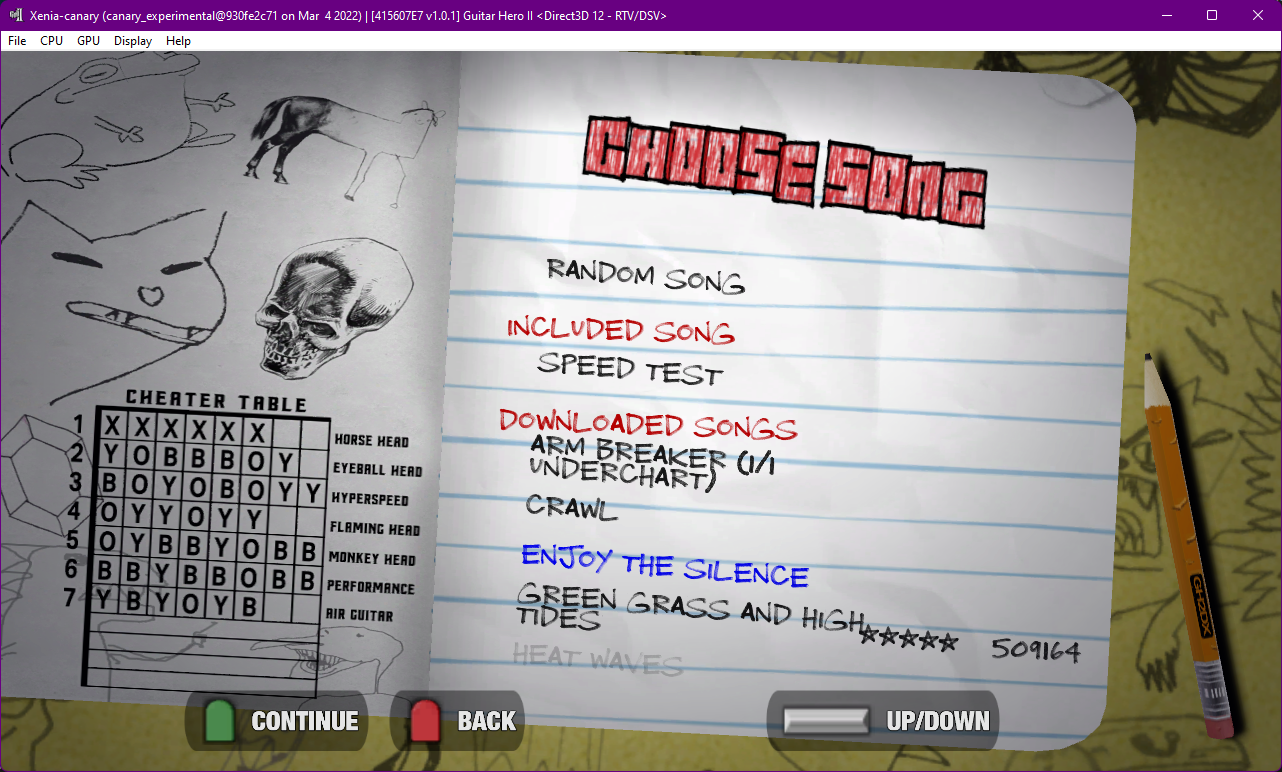
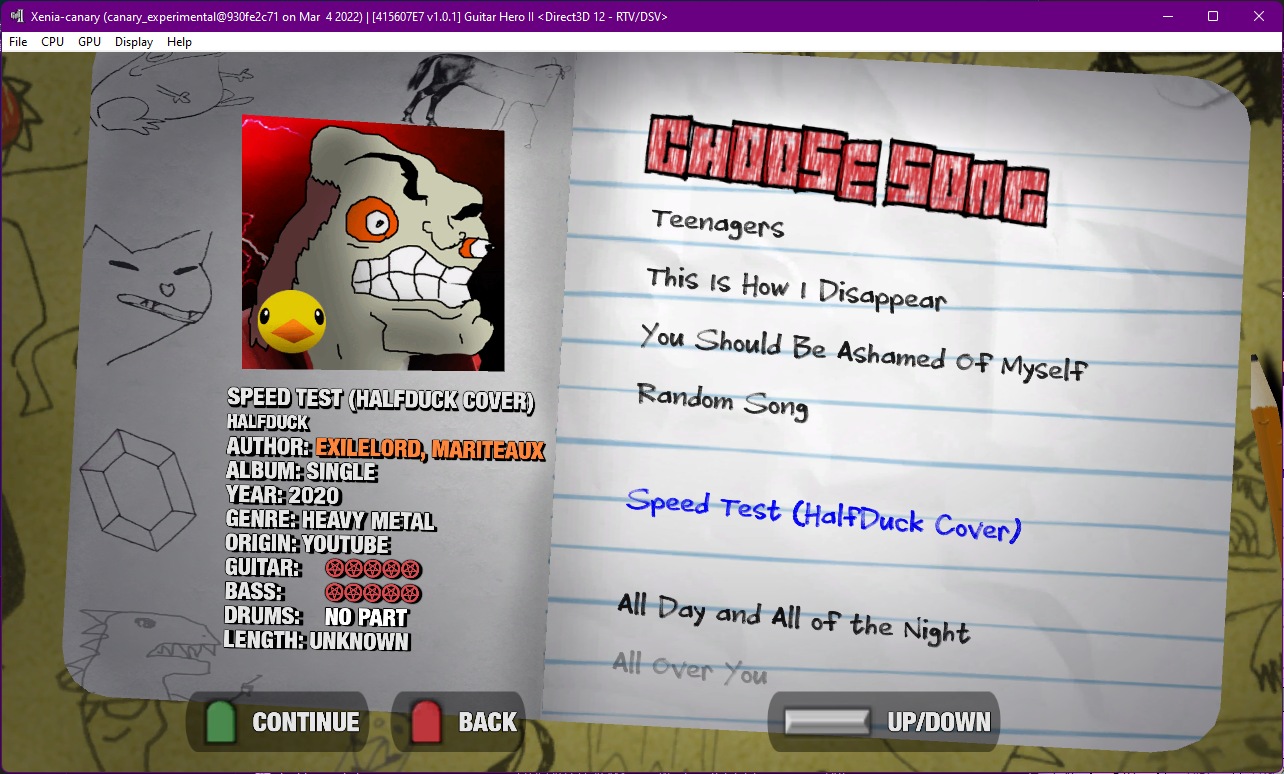
update readme

diff --git a/README.md b/README.md
@@ -76,6 +76,8 @@ A specific build of [x360ce 3.2](https://www.x360ce.com/) that supports guitar m
 
 * Skip Outro - Skips the outro win animation when completing a song.
 
+* Force Encore - Forces the current song to act as an encore, gives unique intro camera animation.
+
 * Sound Effects - Disables certain sound effects such as the crowd in game.
 
 * Note Streak Popups - Disables the note streak interval message popups in game.
@@ -148,6 +150,29 @@ Guitar Hero II Deluxe technically uses career mode for quickplay gameplay, as su
 
 A random song button is also included on the song select screen to shuffle the library.
 
+Additionally, detailed song information in the style of RB/CH is available for DX songs out of the box. As of writing, Onyx support to output this information for dx on new conversions, is currently in development. Some specific artists, namely Harmonix and Neversoft, have custom colors for their author name.
+
+Potential detailed song information includes
+
+* Artist
+* Author
+* Album
+* Year
+* Genre
+* Origin
+* Difficulty
+* Length
+
+Previously converted tracks for gh2dx will not have this information unless manually applied.
+
+Album art is also supported.
+
+The build scripts will automatically detect album art in the `Content` directories for your song, and generate them where they need to go.
+
+These images are read from outside of the ARK as raw files. An `album_art` folder will be generated in `_build/Xbox` that contains these images for you.
+
+This support is also planned to be coming in a future Onyx update.
+
 ![Song Select](dependencies/images/songselect.png)
 
 ## Endgame Screen
@@ -163,8 +188,6 @@ Notes Hit Percentage now shows a more detailed readout, tracking to the hundredt
 Various modifier status is reported on screen to give indication on how the player prefers to play.
 
 ![Endgame Screen](dependencies/images/endgame.png)
-
-
 
 # Install
 
@@ -271,21 +294,21 @@ You can install song packs for Guitar Hero II Deluxe in:
 * Xenia: `\_xenia\content\415607E7\00000002\XXXXXX`
 * Hardware: `/Hdd1/Content/0000000000000000/415607E7/00000002/XXXXXX`
 
-Where XXXXXX is the name of your song pack, containing both a "songs" and a "config" folder on Xenia, or a singular LIVE file with no extension on hardware.
-con/live files are not supported in Xenia
+Where XXXXXX is the name of your song pack, containing both a `songs` and a `config` folder on Xenia, or a singular LIVE file with no extension on hardware. Con/live files are not supported in Xenia.
 
-There is a max package limit of 16 song packs. The setlist has been completely reworked to allow more songs. Current song limit is unknown.
+There is a max package limit of 16 song packs. The setlist has been completely reworked to allow more songs. After 250 songs loaded, saving will be automatically disabled to prevent crashes. Current max song limit is unknown.
 
 # Custom Highways
+
 This repo also supports the import of custom highways via the use of an all in one bat file and a couple external dependencies included.
 
-Simply drag in a .jpg/.png/.bmp into the "highways" folder at the root of the repo, then run "_highways.bat"
+Simply drag in a .jpg/.png/.bmp into the `highways` folder at the root of the repo, then run `_highways.bat`
 This will size your images accordingly (supports arbitrary resolutions), and convert them to the proper format for gh2 to read.
-ARK files will be generated for a list of your custom highways in game to choose from at will using the overshell (select select on most all menues)
+ARK files will be generated for a list of your custom highways in game to choose from at will using the overshell (select select on most all menus)
 
-The highway "_black_highway" is marked as the default in game. If you delete this highway from the custom highways folder, you must select your new highway in game or you will experience a crash.
+The highway `_black_highway` is marked as the default in game. If you delete this highway from the custom highways folder, you must select your new highway in game or you will experience a crash.
 
-After running "_highways.bat" you will need to run "_gh2.bat" again to build your new ARK.
+After running `_highways.bat` you will need to run `_build_****.bat` again to build your new ARK.
 
 # Included Dependencies
 
